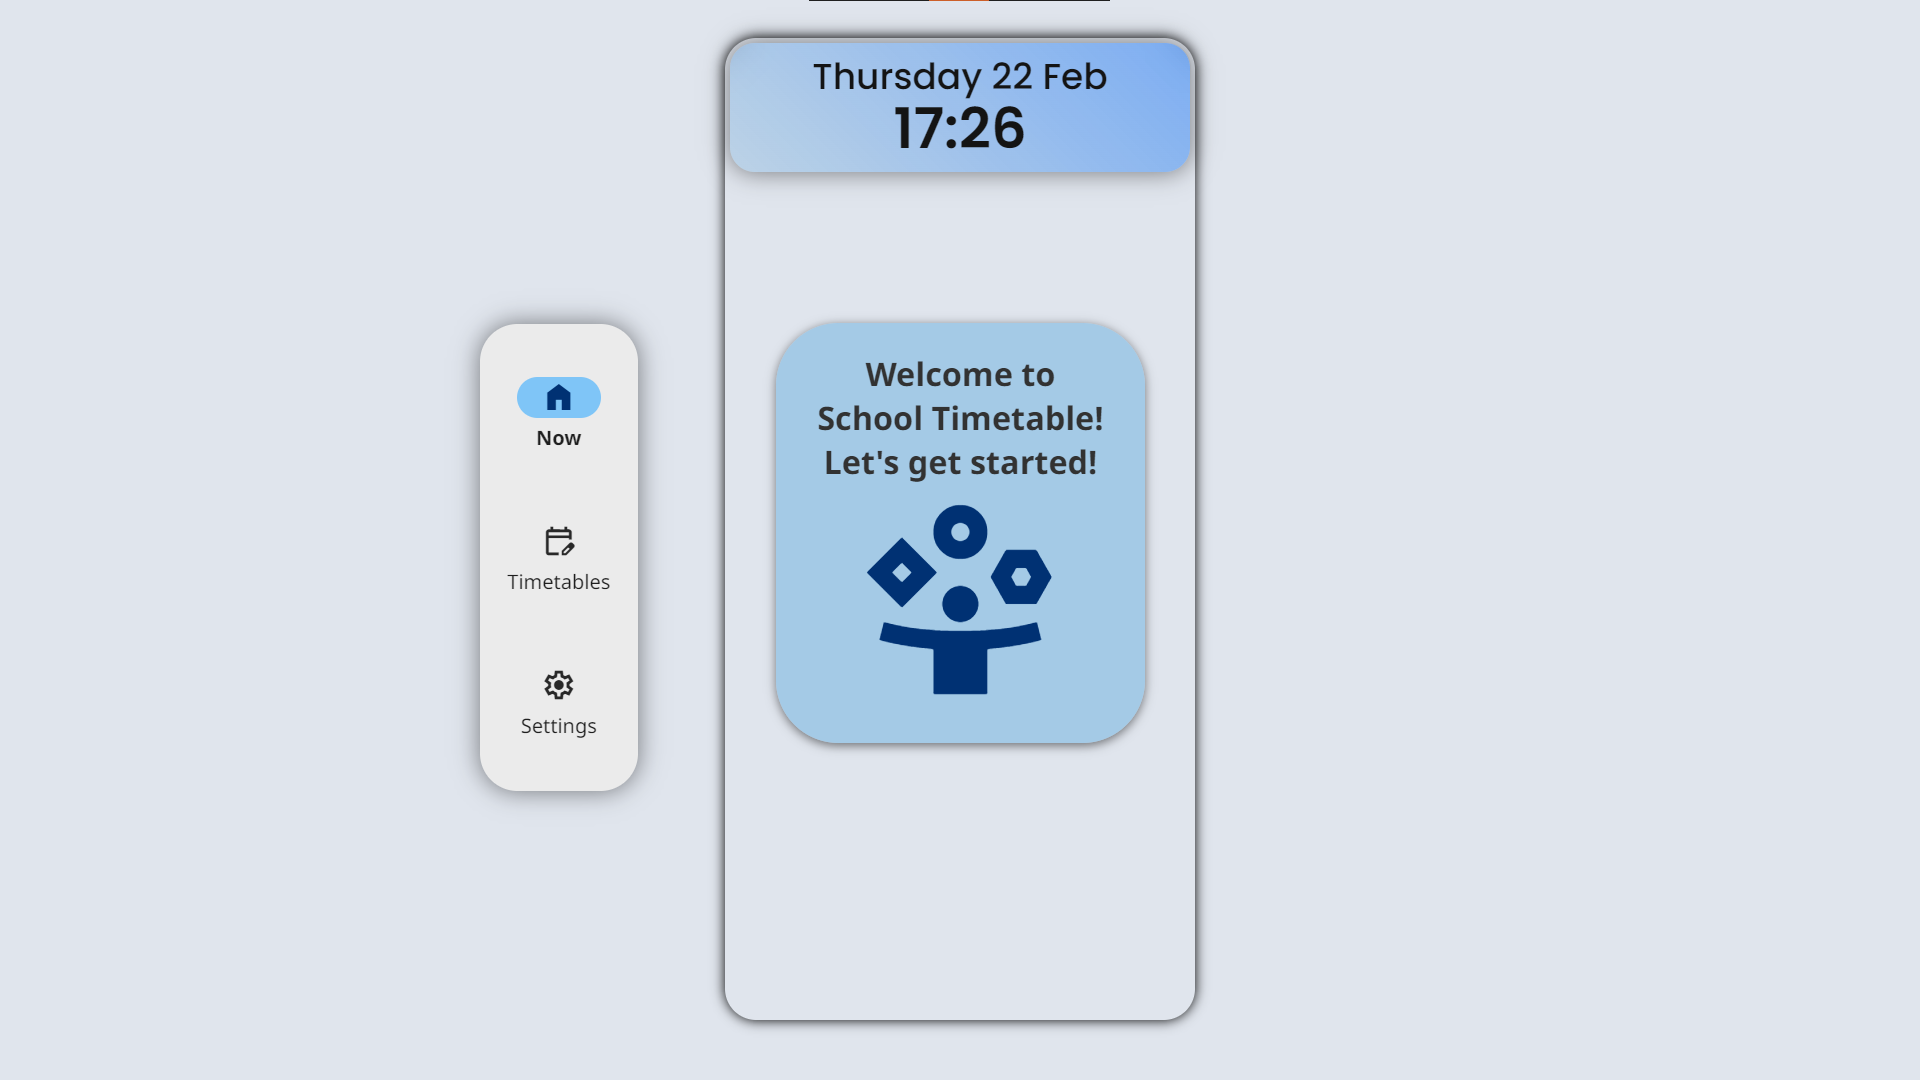
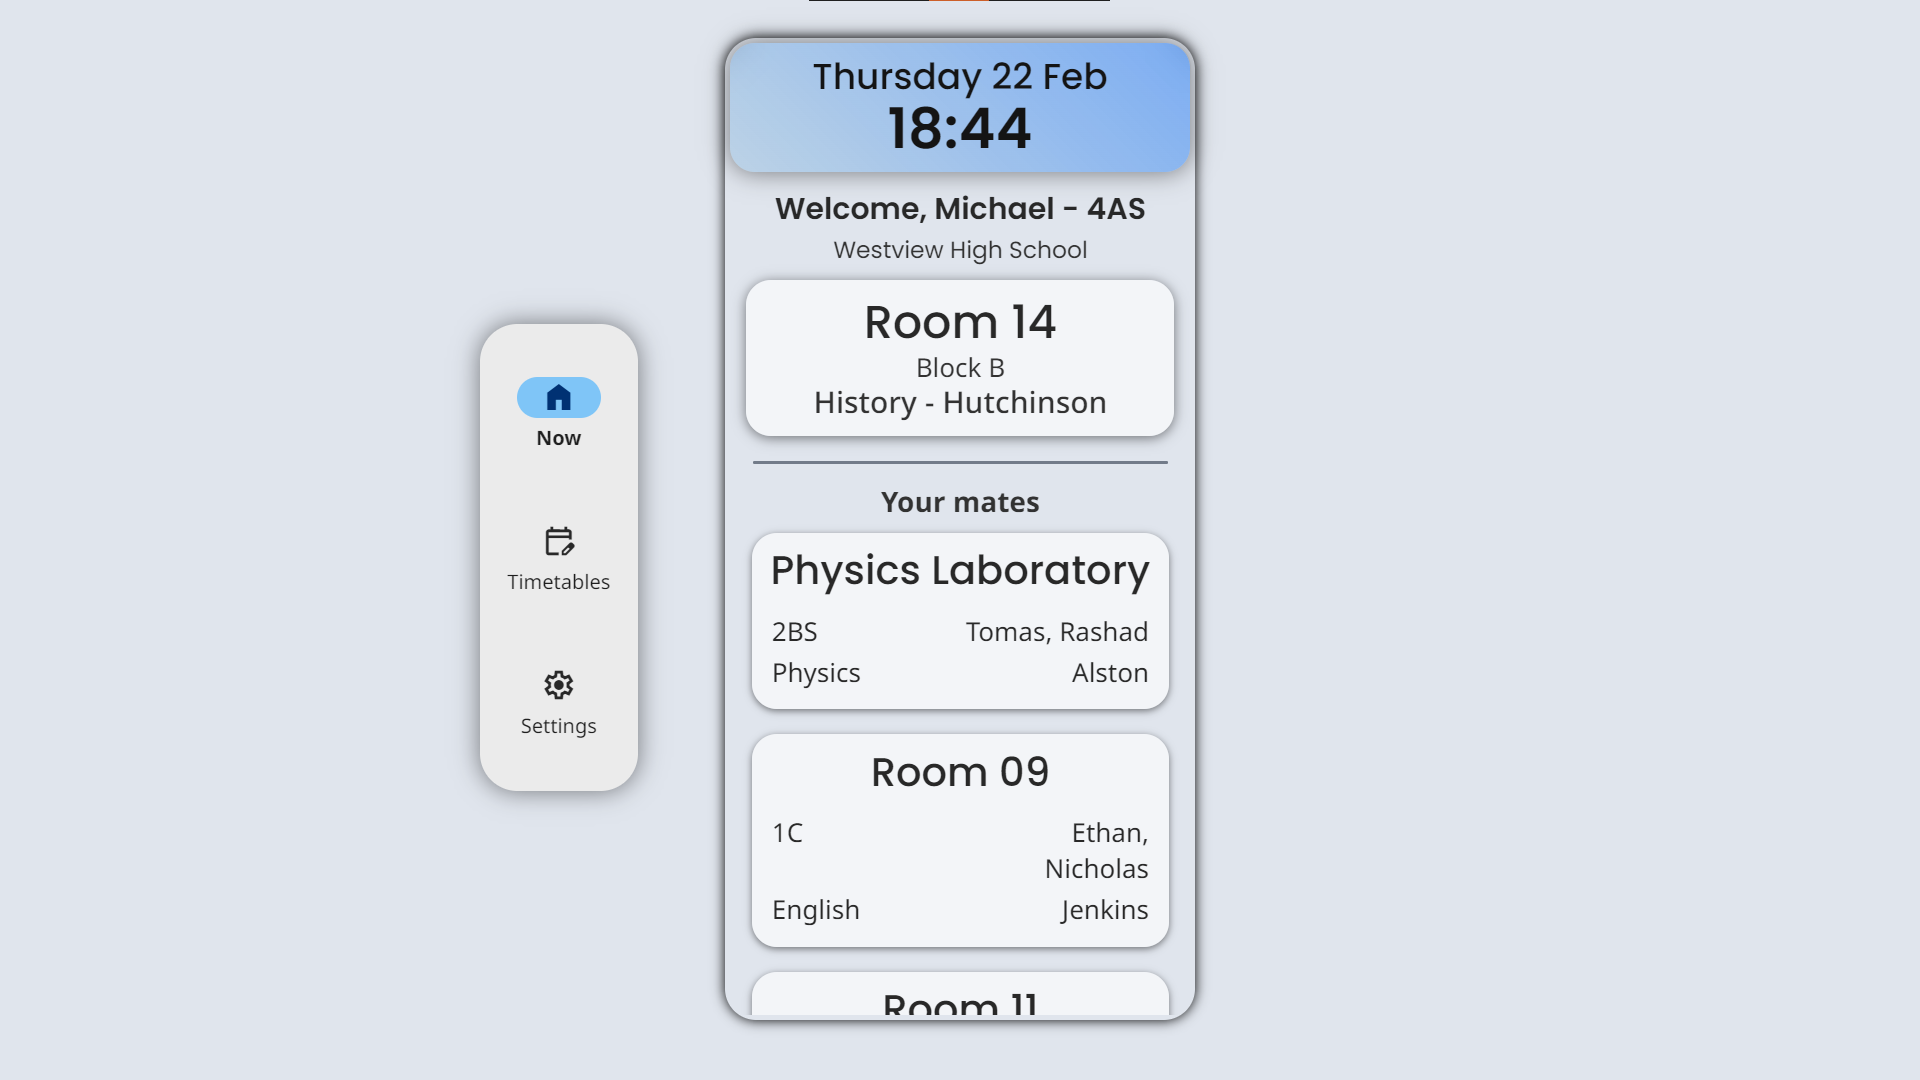
Added more screenshots

diff --git a/index.js b/index.js
@@ -722,7 +722,8 @@ function updateDateTime() {
 
   // CALLING FUNCTION TO UPDATE DATA CONSTANTLY
   day--; // decrements by one because in date object monday is '1' 
-
+  day = 0;
+  hour = 8;
   displayUserToNowTab(day, hour);
   displayMatesToNowTab(day, hour);
 
